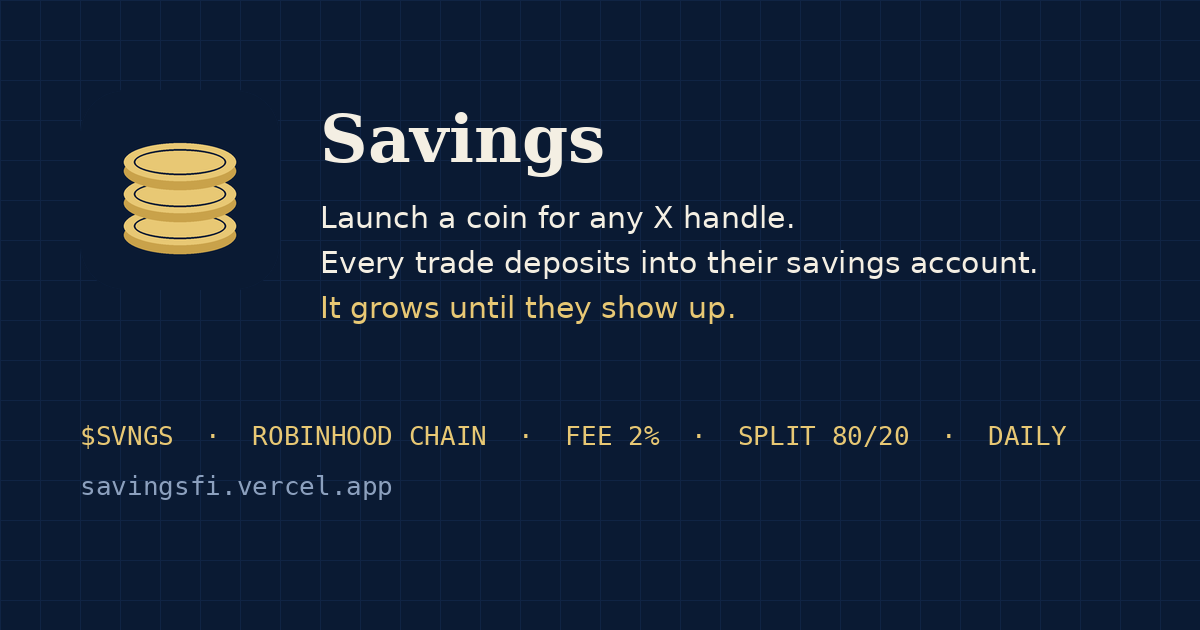
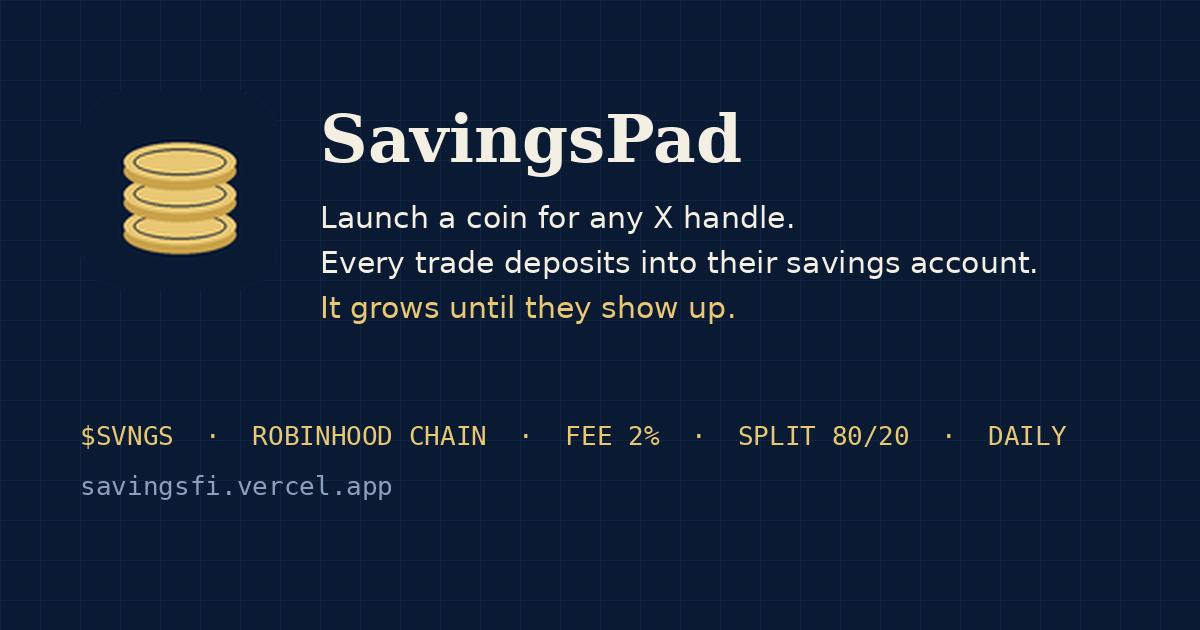
Rename to SavingsPad

Changed region(s): [[0.0925, 0.2111, 0.2158, 0.3921], [0.4933, 0.181, 0.6167, 0.2714]]

diff --git a/index.html b/index.html
@@ -3,9 +3,9 @@
 <head>
 <meta charset="utf-8">
 <meta name="viewport" content="width=device-width,initial-scale=1">
-<title>Savings — Launch a coin for any X handle. Every trade deposits into their savings account.</title>
-<meta name="description" content="Savings is a launchpad on Robinhood Chain. Launch a coin for any X handle. Every trade deposits 2% into a savings account in that handle's name. It earns interest until they sign in and withdraw.">
-<meta property="og:title" content="Savings — every trade is a deposit">
+<title>SavingsPad — Launch a coin for any X handle. Every trade deposits into their savings account.</title>
+<meta name="description" content="SavingsPad is a launchpad on Robinhood Chain. Launch a coin for any X handle. Every trade deposits 2% into a savings account in that handle's name. It earns interest until they sign in and withdraw.">
+<meta property="og:title" content="SavingsPad — every trade is a deposit">
 <meta property="og:description" content="Launch a coin for any X handle. Every trade deposits into their savings account. It grows until they show up.">
 <meta property="og:image" content="og.png">
 <meta property="og:type" content="website">
@@ -344,7 +344,7 @@ footer .row{display:flex;justify-content:space-between;gap:20px;flex-wrap:wrap;b
 <body>
 
 <header><div class="wrap hd">
-  <a class="brand" href="#"><img src="assets/logo-96.png" alt="Savings — three stacked coins on navy">Savings</a>
+  <a class="brand" href="#"><img src="assets/logo-96.png" alt="SavingsPad — three stacked coins on navy">SavingsPad</a>
   <nav class="main">
     <a href="#lookup"><b>01</b>Look up</a>
     <a href="#how"><b>02</b>How it works</a>
@@ -428,7 +428,7 @@ footer .row{display:flex;justify-content:space-between;gap:20px;flex-wrap:wrap;b
       <div class="quick" id="quick"></div>
     </div>
     <div class="steps">
-      <div class="step"><i>01</i><div><b>Found an account in your name?</b><p>Sign in with X on this page. Savings checks that the handle is yours, shows you every deposit since day one, and releases the cleared balance to the wallet you connect. One press, one transaction, no fee.</p></div></div>
+      <div class="step"><i>01</i><div><b>Found an account in your name?</b><p>Sign in with X on this page. SavingsPad checks that the handle is yours, shows you every deposit since day one, and releases the cleared balance to the wallet you connect. One press, one transaction, no fee.</p></div></div>
       <div class="step"><i>02</i><div><b>Nothing there yet?</b><p>Then nobody has launched a coin for you. That takes about a minute on Pons, and it does not have to be you who does it. The account will open on the first trade.</p></div></div>
       <div class="step"><i>03</i><div><b>Want to open one for someone?</b><p>Launch a coin, type their handle, and the account is theirs from the first block. You get the coin. They get a balance that grows whether or not they ever look at it.</p></div></div>
       <div class="card paperc" style="margin-top:6px"><div class="k">Withdrawal rules</div><p>Partial withdrawals are fine. The account stays open after a withdrawal and keeps taking deposits. Nothing expires, nothing is swept, nothing is burned on the handle's side. The only person who can move the balance is the person who can sign in as that handle.</p></div>
@@ -444,7 +444,7 @@ footer .row{display:flex;justify-content:space-between;gap:20px;flex-wrap:wrap;b
     <p>Set at launch, immutable after. Nobody can change it later, including us.</p>
   </div>
   <div class="flow">
-    <div class="card"><div class="k">Launch</div><h3>Name a handle</h3><p>Launch on Pons, Robinhood Chain. Type any X handle: yours, a friend's, a stranger's, a company's. The handle does not need to know, agree, or exist on Savings yet.</p></div>
+    <div class="card"><div class="k">Launch</div><h3>Name a handle</h3><p>Launch on Pons, Robinhood Chain. Type any X handle: yours, a friend's, a stranger's, a company's. The handle does not need to know, agree, or exist on SavingsPad yet.</p></div>
     <div class="card"><div class="k">Deposit</div><h3>Every trade pays in</h3><p>Each buy and sell carries a 2% fee. 80% of it is deposited to the handle's account in USDG the moment the trade settles. 20% buys $SVNGS on the open market and burns it.</p></div>
     <div class="card"><div class="k">Compound</div><h3>Interest posts daily</h3><p>The account holds tokenized Treasury bills. Interest accrues every day at the reference rate and is added to principal, so tomorrow's interest is on today's interest too.</p></div>
     <div class="card"><div class="k">Withdraw</div><h3>Sign in with X</h3><p>The handle signs in, connects a wallet, and takes the balance. Principal, interest, everything. Free, any amount, any time. The account keeps working after they leave.</p></div>
@@ -453,7 +453,7 @@ footer .row{display:flex;justify-content:space-between;gap:20px;flex-wrap:wrap;b
     <div class="split">
       <div class="k mono" style="font-size:11px;letter-spacing:.12em;text-transform:uppercase;color:var(--gold3)">Fee split · every trade · 2.00%</div>
       <div class="bar"><div class="a">80% · deposit to the handle</div><div class="b">20% · burn</div></div>
-      <p>There is no protocol share. Savings does not keep a cut of deposits, interest, or withdrawals. The 20% buys $SVNGS with fees and burns it in the same transaction, so every trade on every coin is a small, permanent bid.</p>
+      <p>There is no protocol share. SavingsPad does not keep a cut of deposits, interest, or withdrawals. The 20% buys $SVNGS with fees and burns it in the same transaction, so every trade on every coin is a small, permanent bid.</p>
     </div>
     <div class="card"><div class="k">Where the yield comes from</div><h3>Treasury bills, not us</h3><p>Deposits are converted into tokenized short-dated U.S. Treasury bills on Robinhood Chain. The reference rate tracks the 3-month bill and is published daily on every account page. When rates move, every account moves with them. We do not set the rate and cannot promise one.</p></div>
   </div>
@@ -522,7 +522,7 @@ footer .row{display:flex;justify-content:space-between;gap:20px;flex-wrap:wrap;b
     </div>
     <div class="card">
       <table class="params">
-        <tr><td>Token</td><td>Savings · $SVNGS</td></tr>
+        <tr><td>Token</td><td>SavingsPad · $SVNGS</td></tr>
         <tr><td>Chain</td><td>Robinhood Chain · chain id 4663</td></tr>
         <tr><td>Launchpad</td><td>Pons · graduates to Uniswap</td></tr>
         <tr><td>Supply</td><td>1,000,000,000 · fixed at launch · no emissions</td></tr>
@@ -537,13 +537,13 @@ footer .row{display:flex;justify-content:space-between;gap:20px;flex-wrap:wrap;b
     </div>
   </div>
   <div class="grid2" style="margin-top:18px">
-    <div class="card"><div class="k">Your wallet</div><h3>Withdrawals land where you say</h3><p>Connect a wallet on Robinhood Chain to set where your withdrawals go and to see your $SVNGS balance once it is live. Connecting shares your address and nothing else; Savings never asks for a signature to read a balance.</p>
+    <div class="card"><div class="k">Your wallet</div><h3>Withdrawals land where you say</h3><p>Connect a wallet on Robinhood Chain to set where your withdrawals go and to see your $SVNGS balance once it is live. Connecting shares your address and nothing else; SavingsPad never asks for a signature to read a balance.</p>
       <div class="bk-act" style="margin-top:16px"><button class="btn gold" id="wBtn2" type="button">Connect wallet</button><small id="tokBal" style="color:var(--mute)">Connect a wallet on Robinhood Chain to see your $SVNGS.</small></div></div>
     <div class="card"><div class="k">Wallets that work here</div><p>Robinhood Wallet supports Robinhood Chain out of the box. MetaMask, Rabby, Trust Wallet and OKX Wallet get the network added for you when you connect: chain ID 4663, ETH for gas, official RPC and explorer. Phone wallets connect by QR through WalletConnect.</p></div>
   </div>
   <div class="grid4" style="margin-top:18px">
-    <div class="card"><div class="k">Permanent bid</div><p>Twenty percent of every fee on every coin is a market buy of $SVNGS followed by a burn. Volume anywhere on Savings is demand for the token, and the supply only goes down.</p></div>
-    <div class="card"><div class="k">No treasury</div><p>Savings holds nothing for itself. Deposits belong to handles, interest belongs to handles, and the buyback is burned rather than kept. There is no wallet to watch.</p></div>
+    <div class="card"><div class="k">Permanent bid</div><p>Twenty percent of every fee on every coin is a market buy of $SVNGS followed by a burn. Volume anywhere on SavingsPad is demand for the token, and the supply only goes down.</p></div>
+    <div class="card"><div class="k">No treasury</div><p>SavingsPad holds nothing for itself. Deposits belong to handles, interest belongs to handles, and the buyback is burned rather than kept. There is no wallet to watch.</p></div>
     <div class="card"><div class="k">No emissions</div><p>One billion at launch, all of it. No staking rewards, no team unlock, no vesting schedule to wait out. The only supply event left is the burn.</p></div>
     <div class="card"><div class="k">Rate is not ours</div><p>Interest comes from the bills the accounts hold, not from token inflation. If the bill pays less, accounts earn less. Nobody is printing yield here.</p></div>
   </div>
@@ -555,7 +555,7 @@ footer .row{display:flex;justify-content:space-between;gap:20px;flex-wrap:wrap;b
   <div class="sh"><h2>Rollout.</h2><p>Three stages. Nothing on this page is promised before its stage.</p></div>
   <div class="grid3">
     <div class="card"><b>Now</b><ul><li>Account lookup, statements and the calculator are live on this page.</li><li>$SVNGS launches on Pons. The split is written into the launch contract before the first coin.</li><li>Sign in with X is wired and audited before any balance can be released.</li></ul></div>
-    <div class="card"><b>At launch</b><ul><li>Launch a coin for any handle from the Savings launch page.</li><li>First deposits land in T-bills the same day. First interest posts the next.</li><li>Public account pages with full deposit history and daily rate.</li></ul></div>
+    <div class="card"><b>At launch</b><ul><li>Launch a coin for any handle from the SavingsPad launch page.</li><li>First deposits land in T-bills the same day. First interest posts the next.</li><li>Public account pages with full deposit history and daily rate.</li></ul></div>
     <div class="card"><b>After</b><ul><li>Monthly on-chain statements per handle.</li><li>Joint accounts: one coin, up to five handles, split written at launch.</li><li>Handles from other networks once their sign-in can be verified on-chain.</li></ul></div>
   </div>
   <div class="final">
@@ -572,7 +572,7 @@ footer .row{display:flex;justify-content:space-between;gap:20px;flex-wrap:wrap;b
 
 <footer>
   <div class="row">
-    <div>Savings · $SVNGS · Robinhood Chain (4663) · launched on Pons.<br>Independent from Robinhood Markets, Inc., Pons, and X Corp. Handles and balances shown on this page are illustrative. The reference rate shown is an example; the live rate is published on each account page after launch.</div>
+    <div>SavingsPad · $SVNGS · Robinhood Chain (4663) · launched on Pons.<br>Independent from Robinhood Markets, Inc., Pons, and X Corp. Handles and balances shown on this page are illustrative. The reference rate shown is an example; the live rate is published on each account page after launch.</div>
     <div class="mono">savingsfi.vercel.app</div>
   </div>
 </footer>
@@ -851,7 +851,7 @@ var KNOWN=[
    help:function(){ return '<p>Robinhood Wallet supports Robinhood Chain out of the box.</p><ol><li>Open Robinhood Wallet on your phone</li><li>Tap <b>Web3</b> (the globe icon)</li><li>Paste <code>'+esc(pageUrl())+'</code> and tap Connect wallet there</li></ol>'; },
    acts:function(){ return (WC_ID?'<button class="btn small gold" data-act="wc">Scan QR with WalletConnect</button>':'')+'<button class="btn small" data-act="copy">Copy site link</button><a class="btn small" target="_blank" rel="noopener" href="https://robinhood.com/us/en/download/wallet/">Get the app ↗</a>'; }},
   {k:'metamask',n:'MetaMask',c:'#F6851B',t:'M',m:/metamask/i,
-   help:function(){ return MOBILE?'<p>Opens this page inside the MetaMask app. Savings then adds Robinhood Chain for you.</p>':'<p>Install the MetaMask extension and reload this page. Savings adds Robinhood Chain (4663) to it when you connect.</p>'; },
+   help:function(){ return MOBILE?'<p>Opens this page inside the MetaMask app. SavingsPad then adds Robinhood Chain for you.</p>':'<p>Install the MetaMask extension and reload this page. SavingsPad adds Robinhood Chain (4663) to it when you connect.</p>'; },
    acts:function(){ return MOBILE?'<a class="btn small gold" href="https://metamask.app.link/dapp/'+esc(location.host+location.pathname)+'">Open in MetaMask</a>':'<a class="btn small gold" target="_blank" rel="noopener" href="https://metamask.io/download/">Install MetaMask ↗</a>'+(WC_ID?'<button class="btn small" data-act="wc">Use the phone app (QR)</button>':''); }},
   {k:'rabby',n:'Rabby',c:'#7084FF',t:'R',m:/rabby/i,
    help:function(){ return '<p>Install the Rabby extension and reload this page. Robinhood Chain is added as a custom network when you connect.</p>'; },
@@ -897,7 +897,7 @@ function renderPicker(err){
     }).join('')+'</div>';
   }
   h+='<div class="merr'+(err?' show':'')+'" id="mErr">'+(err?esc(err):'')+'</div>';
-  h+='<p class="mfoot">If Robinhood Chain is not in your wallet yet, Savings asks it to add the network with the official RPC and explorer. Connecting only shares your address, and nothing here asks for a signature.</p>';
+  h+='<p class="mfoot">If Robinhood Chain is not in your wallet yet, SavingsPad asks it to add the network with the official RPC and explorer. Connecting only shares your address, and nothing here asks for a signature.</p>';
   mBody.innerHTML=h;
   mBody.querySelectorAll('.wopt[data-u]').forEach(function(b){
     b.addEventListener('click',function(){
@@ -984,7 +984,7 @@ function initWC(){
     return EP.init({
       projectId:WC_ID, optionalChains:[4663], showQrModal:true,
       rpcMap:{4663:CHAIN.rpcUrls[0]},
-      metadata:{name:'Savings',description:'Launch a coin for any X handle. Every trade deposits into their savings account.',url:location.origin,icons:[location.origin+location.pathname.replace(/[^/]*$/,'')+'favicon.png']},
+      metadata:{name:'SavingsPad',description:'Launch a coin for any X handle. Every trade deposits into their savings account.',url:location.origin,icons:[location.origin+location.pathname.replace(/[^/]*$/,'')+'favicon.png']},
       qrModalOptions:{themeMode:'dark'}
     });
   }).then(function(p){ WCP=p; return p; });

diff --git a/README.md b/README.md
@@ -1,4 +1,4 @@
-# Savings · $SVNGS
+# SavingsPad · $SVNGS
 
 Launch a coin for any X handle. Every trade deposits into their savings account. It grows until they show up.
 
